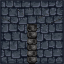
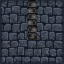
Rotate textures by hex rotation passed in

diff --git a/src/TileDefinition.ts b/src/TileDefinition.ts
@@ -87,7 +87,7 @@ const TJunction = makeBaseTile("TJunction", "tjunction.png", {
     [Direction.NORTH]: SocketType.OPEN,
     [Direction.NORTHEAST]: SocketType.OPEN,
     [Direction.SOUTHEAST]: SocketType.WALL,
-    [Direction.SOUTH]: SocketType.WALL,
+    [Direction.SOUTH]: SocketType.OPEN,
     [Direction.SOUTHWEST]: SocketType.WALL,
     [Direction.NORTHWEST]: SocketType.OPEN
 });

diff --git a/src/SceneManager.ts b/src/SceneManager.ts
@@ -90,6 +90,7 @@ export class SceneManager {
         mat4.invert(modelinvtr, modelinvtr);
         prog.setUniformMat4("u_ModelInvTr", modelinvtr);
         
+        prog.setUniformInt("u_Rotation", tileDef ? tileDef.rotation : 0);
         prog.draw(this.hex);   // draw your hex tile mesh
         if (!tileDef) return; // if not collapsed yet
         
